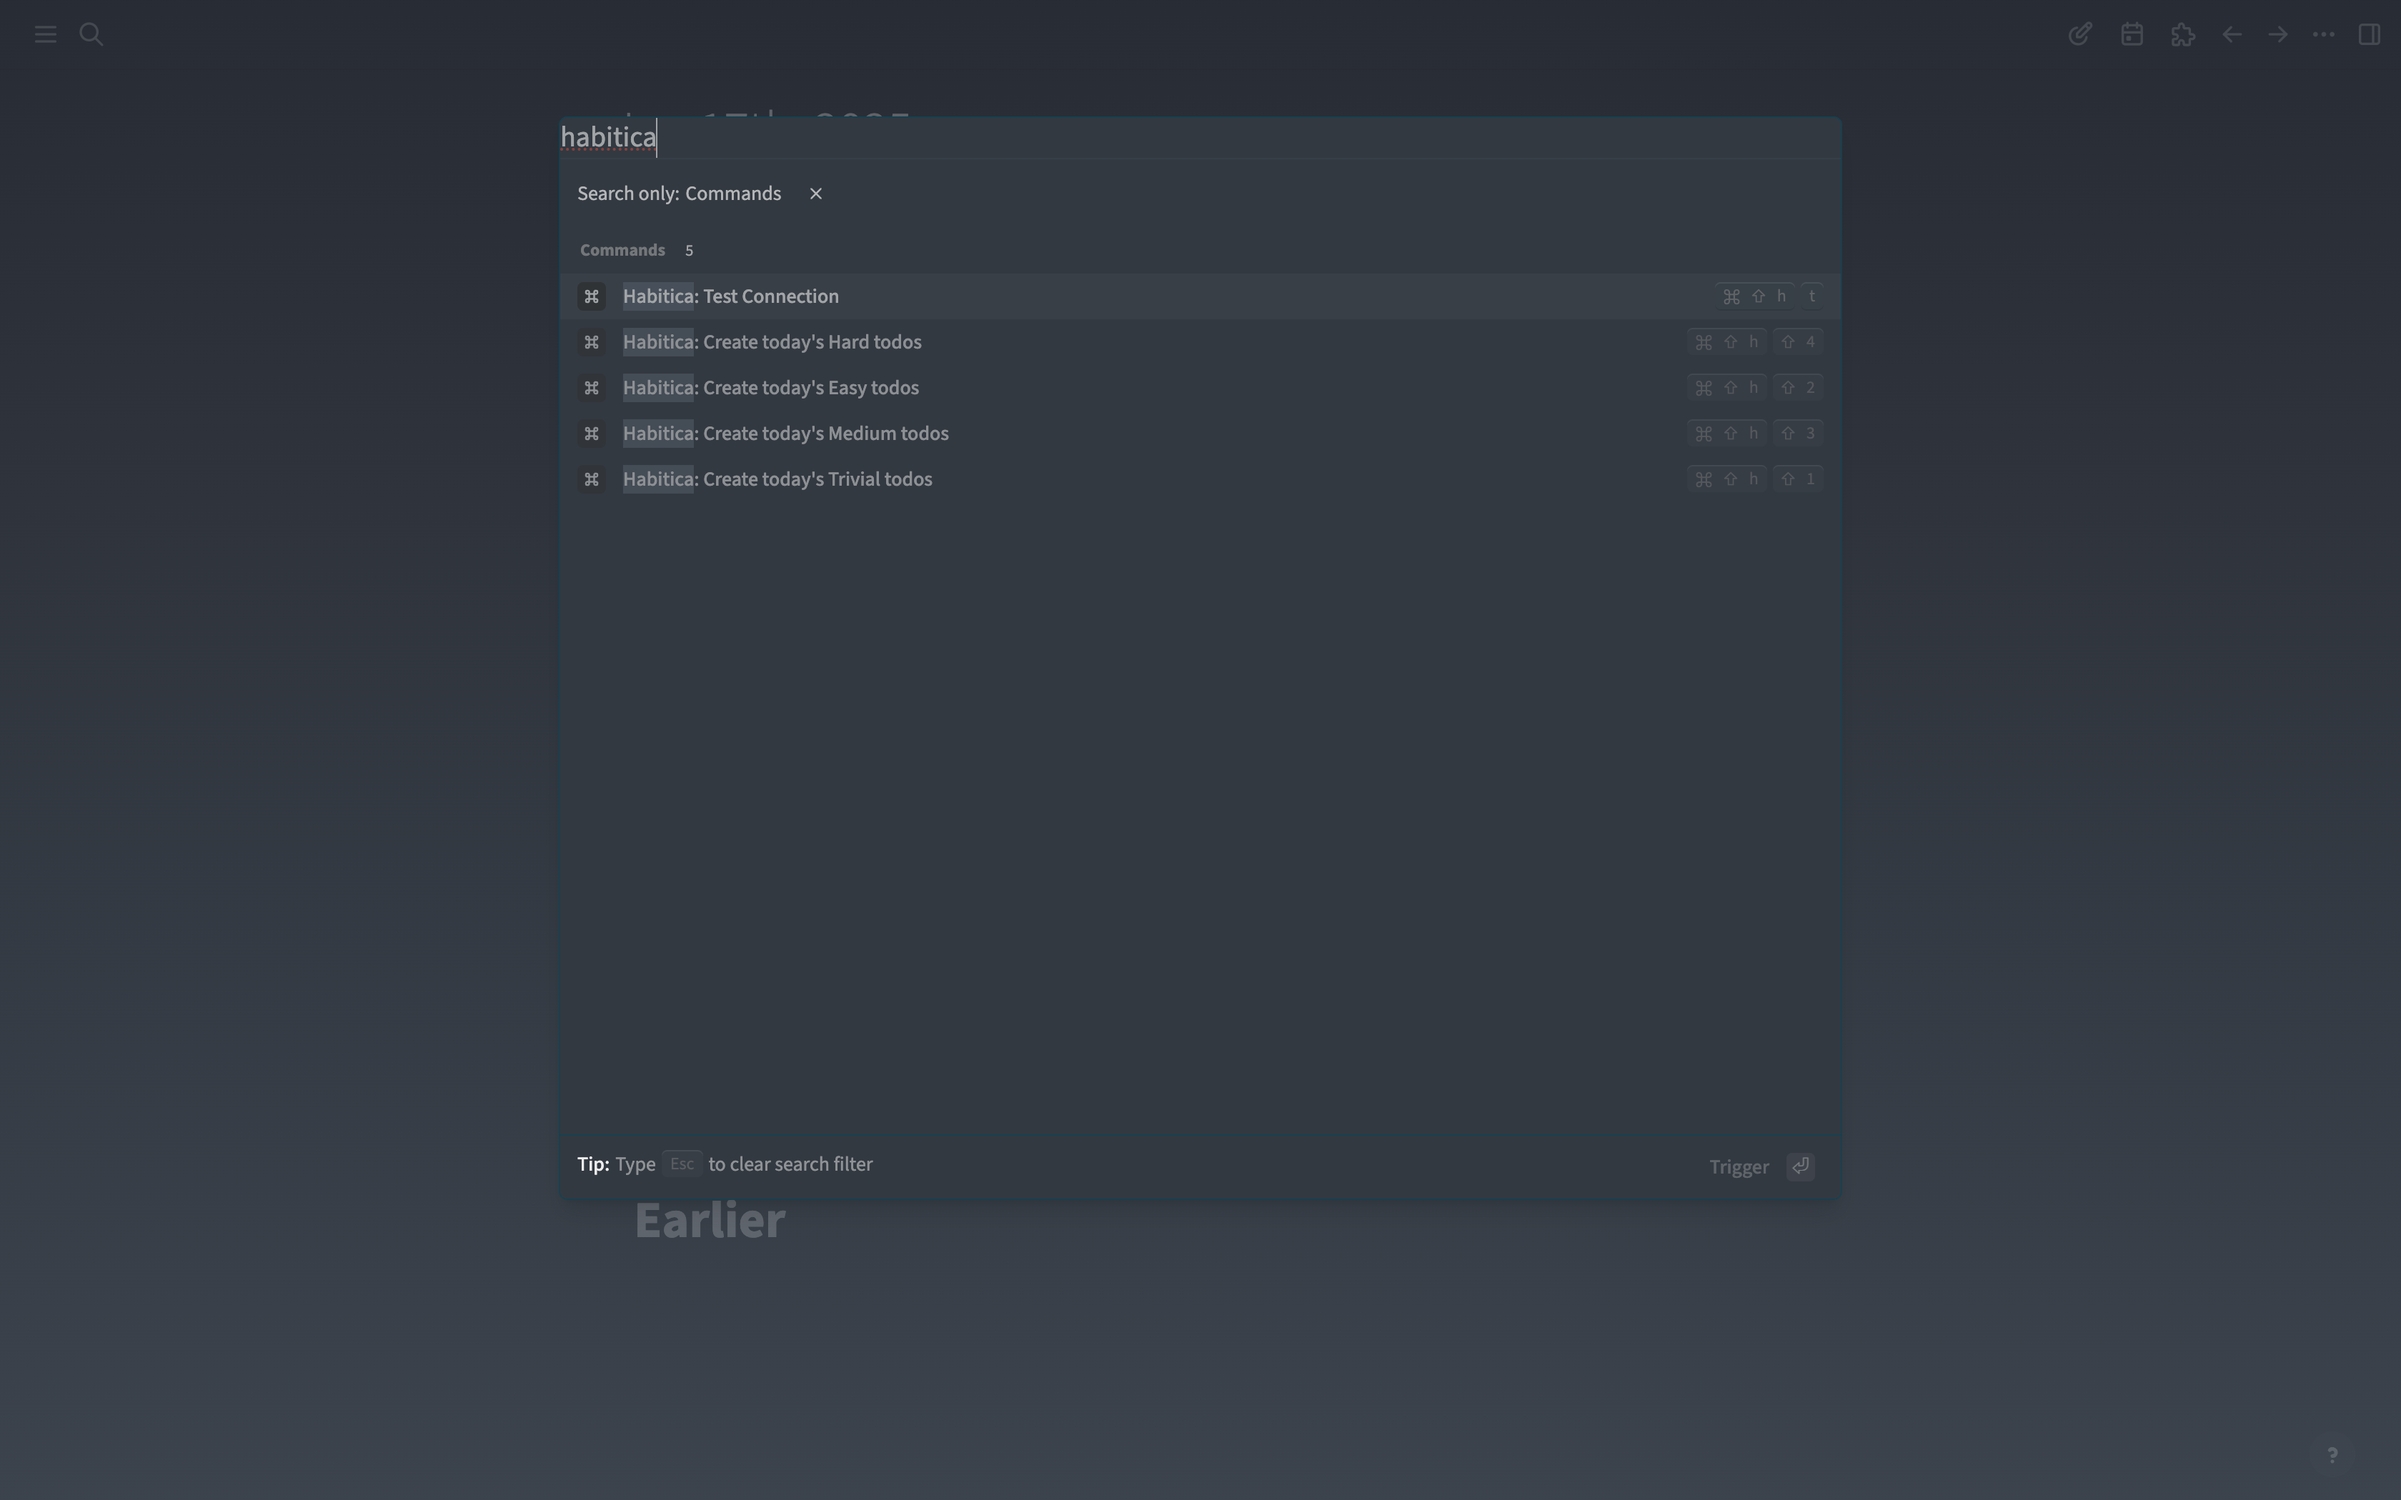
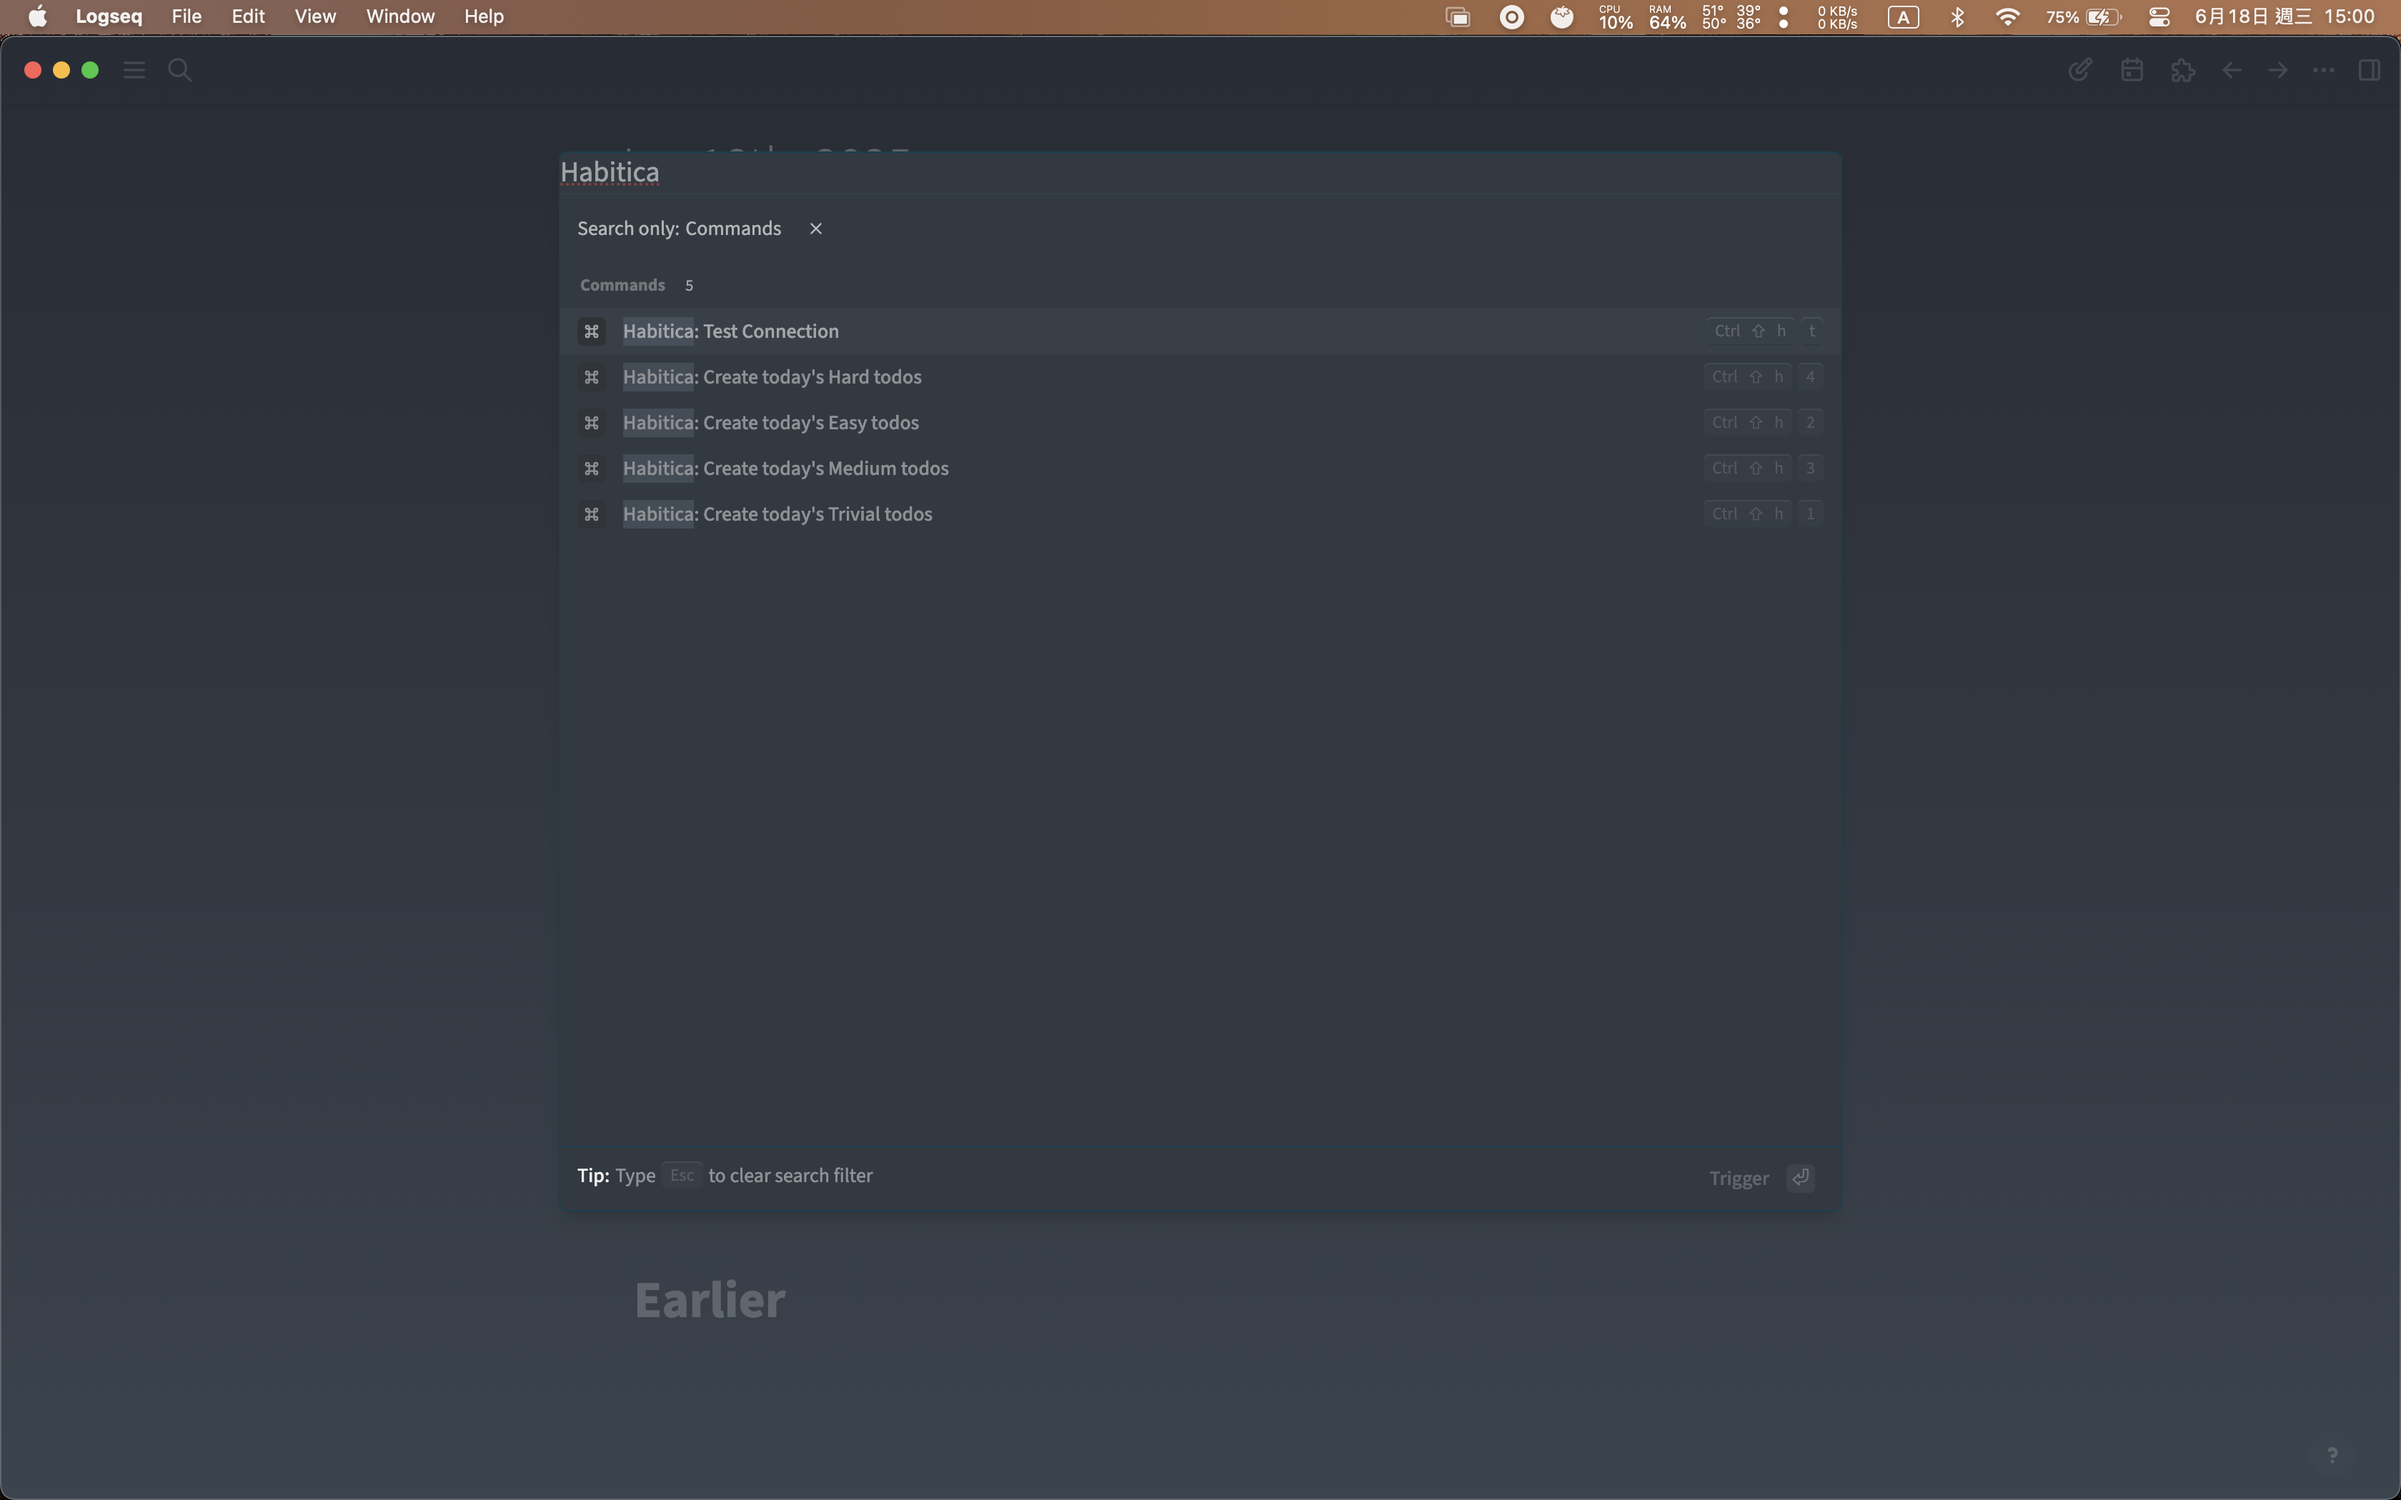
fix: resolve keybinding conflicts with Logseq native shortcuts
- Changed from mod+shift+h to ctrl+shift+h to avoid conflict with Logseq's native highlight function
- Updated README to reflect new keybinding combinations

diff --git a/src/main.ts b/src/main.ts
@@ -218,7 +218,7 @@ function main() {
   logseq.App.registerCommandPalette({
     key: 'test-habitica-connection',
     label: 'Habitica: Test Connection',
-    keybinding: { binding: 'mod+shift+h t' }
+    keybinding: { binding: 'ctrl+shift+h t' }
   }, testHabiticaConnection);
 
   // 批量建立任務
@@ -339,17 +339,17 @@ function main() {
 
   // 註冊批量建立指令
   const priorities = [
-    { key: 'trivial', value: 0.1, name: 'Trivial', binding: 'shift+1' },
-    { key: 'easy', value: 1, name: 'Easy', binding: 'shift+2' },
-    { key: 'medium', value: 1.5, name: 'Medium', binding: 'shift+3' },
-    { key: 'hard', value: 2, name: 'Hard', binding: 'shift+4' }
+    { key: 'trivial', value: 0.1, name: 'Trivial', binding: '1' },
+    { key: 'easy', value: 1, name: 'Easy', binding: '2' },
+    { key: 'medium', value: 1.5, name: 'Medium', binding: '3' },
+    { key: 'hard', value: 2, name: 'Hard', binding: '4' }
   ];
 
   priorities.forEach(p => {
     logseq.App.registerCommandPalette({
       key: `create-todays-${p.key}-todos`,
       label: `Habitica: Create today's ${p.key.charAt(0).toUpperCase() + p.key.slice(1)} todos`,
-      keybinding: { binding: `mod+shift+h ${p.binding}` }
+      keybinding: { binding: `ctrl+shift+h ${p.binding}` }
     }, async () => {
       await createTodaysTodos(p.value, p.name);
     });

diff --git a/readme.md b/readme.md
@@ -30,13 +30,13 @@ Use slash commands in any TODO block:
 - `/Habitica: Create Hard Task` - Create hard task (purple)
 
 ### Batch Creation (Keyboard Shortcuts)
-- `Ctrl+Shift+H + 1` - Batch create trivial tasks
-- `Ctrl+Shift+H + 2` - Batch create easy tasks
-- `Ctrl+Shift+H + 3` - Batch create medium tasks
-- `Ctrl+Shift+H + 4` - Batch create hard tasks
+- `Ctrl+Shift+H 1` - Batch create trivial tasks
+- `Ctrl+Shift+H 2` - Batch create easy tasks
+- `Ctrl+Shift+H 3` - Batch create medium tasks
+- `Ctrl+Shift+H 4` - Batch create hard tasks
 
 ### Test Connection
-- `Ctrl+Shift+H + T` - Test Habitica connection
+- `Ctrl+Shift+H T` - Test Habitica connection
 
 ## 📄 License
 
